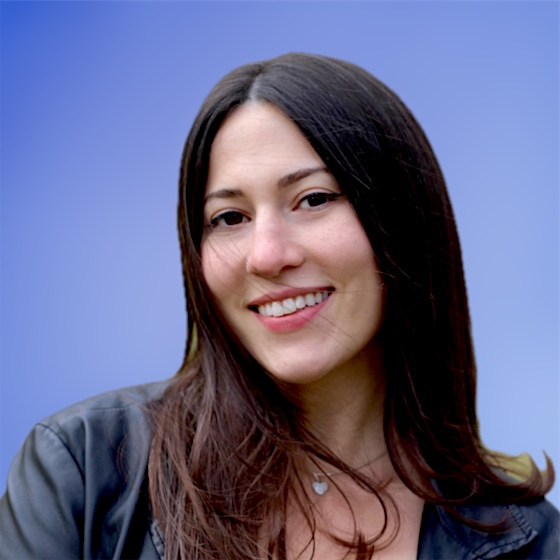
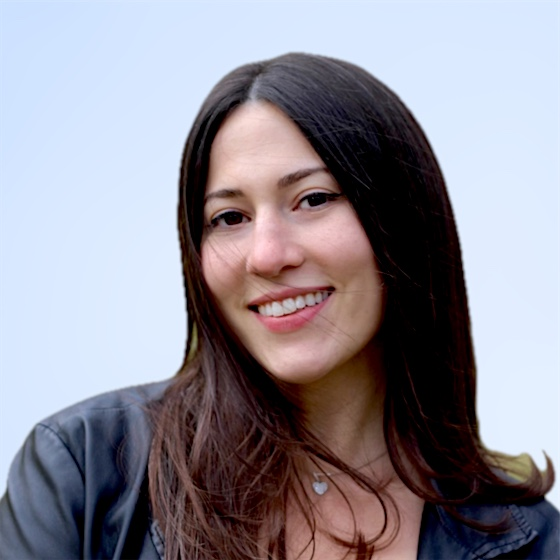
About: softer headshot background matching the site's light blue

diff --git a/about.html b/about.html
@@ -9,7 +9,7 @@
   <link rel="preconnect" href="https://fonts.googleapis.com">
   <link rel="preconnect" href="https://fonts.gstatic.com" crossorigin>
   <link href="https://fonts.googleapis.com/css2?family=Plus+Jakarta+Sans:wght@400;500;600;700;800&display=swap" rel="stylesheet">
-  <link rel="stylesheet" href="styles.css?v=202609301040">
+  <link rel="stylesheet" href="styles.css?v=202609301044">
 </head>
 <body>
 
@@ -85,7 +85,7 @@
 
     <section class="section section-tint">
       <div class="container story story-with-photo">
-        <div class="story-photo"><img src="assets/esther.jpg?v=202609301040" alt="Esther Jacob, founder of Nurse2Tech" width="560" height="560"></div>
+        <div class="story-photo"><img src="assets/esther.jpg?v=202609301044" alt="Esther Jacob, founder of Nurse2Tech" width="560" height="560"></div>
         <div class="story-text">
         <p class="eyebrow">Our story</p>
         <h2>Hi, I'm Esther.</h2>
@@ -182,6 +182,6 @@
     </div>
   </footer>
 
-  <script src="script.js?v=202609301040"></script>
+  <script src="script.js?v=202609301044"></script>
 </body>
 </html>

diff --git a/events.html b/events.html
@@ -9,7 +9,7 @@
   <link rel="preconnect" href="https://fonts.googleapis.com">
   <link rel="preconnect" href="https://fonts.gstatic.com" crossorigin>
   <link href="https://fonts.googleapis.com/css2?family=Plus+Jakarta+Sans:wght@400;500;600;700;800&display=swap" rel="stylesheet">
-  <link rel="stylesheet" href="styles.css?v=202609301040">
+  <link rel="stylesheet" href="styles.css?v=202609301044">
 </head>
 <body>
 
@@ -178,7 +178,7 @@
     </div>
   </footer>
 
-  <script src="script.js?v=202609301040"></script>
+  <script src="script.js?v=202609301044"></script>
   <script>
     {
       const esc = (s) => String(s ?? "").replace(/[&<>"']/g, (c) => ({ "&": "&amp;", "<": "&lt;", ">": "&gt;", '"': "&quot;", "'": "&#39;" })[c]);

diff --git a/apply.html b/apply.html
@@ -9,7 +9,7 @@
   <link rel="preconnect" href="https://fonts.googleapis.com">
   <link rel="preconnect" href="https://fonts.gstatic.com" crossorigin>
   <link href="https://fonts.googleapis.com/css2?family=Plus+Jakarta+Sans:wght@400;500;600;700;800&display=swap" rel="stylesheet">
-  <link rel="stylesheet" href="styles.css?v=202609301040">
+  <link rel="stylesheet" href="styles.css?v=202609301044">
 </head>
 <body class="page-apply">
 
@@ -286,7 +286,7 @@
     </div>
   </footer>
 
-  <script src="script.js?v=202609301040"></script>
-  <script src="apply.js?v=202609301040"></script>
+  <script src="script.js?v=202609301044"></script>
+  <script src="apply.js?v=202609301044"></script>
 </body>
 </html>

diff --git a/jobs.html b/jobs.html
@@ -9,7 +9,7 @@
   <link rel="preconnect" href="https://fonts.googleapis.com">
   <link rel="preconnect" href="https://fonts.gstatic.com" crossorigin>
   <link href="https://fonts.googleapis.com/css2?family=Plus+Jakarta+Sans:wght@400;500;600;700;800&display=swap" rel="stylesheet">
-  <link rel="stylesheet" href="styles.css?v=202609301040">
+  <link rel="stylesheet" href="styles.css?v=202609301044">
 </head>
 <body>
 
@@ -239,7 +239,7 @@
     </div>
   </footer>
 
-  <script src="script.js?v=202609301040"></script>
-  <script src="jobs.js?v=202609301040"></script>
+  <script src="script.js?v=202609301044"></script>
+  <script src="jobs.js?v=202609301044"></script>
 </body>
 </html>

diff --git a/resources.html b/resources.html
@@ -9,7 +9,7 @@
   <link rel="preconnect" href="https://fonts.googleapis.com">
   <link rel="preconnect" href="https://fonts.gstatic.com" crossorigin>
   <link href="https://fonts.googleapis.com/css2?family=Plus+Jakarta+Sans:wght@400;500;600;700;800&display=swap" rel="stylesheet">
-  <link rel="stylesheet" href="styles.css?v=202609301040">
+  <link rel="stylesheet" href="styles.css?v=202609301044">
 </head>
 <body>
 
@@ -353,7 +353,7 @@
     </div>
   </footer>
 
-  <script src="script.js?v=202609301040"></script>
+  <script src="script.js?v=202609301044"></script>
   <script>
     {
       const chips = document.querySelectorAll("[data-rfilter]");

diff --git a/contact.html b/contact.html
@@ -9,7 +9,7 @@
   <link rel="preconnect" href="https://fonts.googleapis.com">
   <link rel="preconnect" href="https://fonts.gstatic.com" crossorigin>
   <link href="https://fonts.googleapis.com/css2?family=Plus+Jakarta+Sans:wght@400;500;600;700;800&display=swap" rel="stylesheet">
-  <link rel="stylesheet" href="styles.css?v=202609301040">
+  <link rel="stylesheet" href="styles.css?v=202609301044">
 </head>
 <body>
 
@@ -169,6 +169,6 @@
     </div>
   </footer>
 
-  <script src="script.js?v=202609301040"></script>
+  <script src="script.js?v=202609301044"></script>
 </body>
 </html>

diff --git a/index.html b/index.html
@@ -9,7 +9,7 @@
   <link rel="preconnect" href="https://fonts.googleapis.com">
   <link rel="preconnect" href="https://fonts.gstatic.com" crossorigin>
   <link href="https://fonts.googleapis.com/css2?family=Plus+Jakarta+Sans:wght@400;500;600;700;800&display=swap" rel="stylesheet">
-  <link rel="stylesheet" href="styles.css?v=202609301040">
+  <link rel="stylesheet" href="styles.css?v=202609301044">
 </head>
 <body>
 
@@ -211,6 +211,6 @@
     </div>
   </footer>
 
-  <script src="script.js?v=202609301040"></script>
+  <script src="script.js?v=202609301044"></script>
 </body>
 </html>

diff --git a/spotlight.html b/spotlight.html
@@ -9,7 +9,7 @@
   <link rel="preconnect" href="https://fonts.googleapis.com">
   <link rel="preconnect" href="https://fonts.gstatic.com" crossorigin>
   <link href="https://fonts.googleapis.com/css2?family=Plus+Jakarta+Sans:wght@400;500;600;700;800&display=swap" rel="stylesheet">
-  <link rel="stylesheet" href="styles.css?v=202609301040">
+  <link rel="stylesheet" href="styles.css?v=202609301044">
 </head>
 <body>
 
@@ -130,6 +130,6 @@
     </div>
   </footer>
 
-  <script src="script.js?v=202609301040"></script>
+  <script src="script.js?v=202609301044"></script>
 </body>
 </html>
